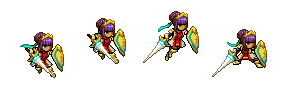
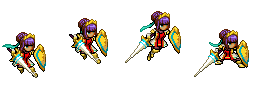
공격

diff --git a/boy.py b/boy.py
@@ -1,7 +1,10 @@
 # 이것은 각 상태들을 객체로 구현한 것임.
 
 from pico2d import get_time, load_image, SDL_KEYDOWN, SDL_KEYUP, SDLK_SPACE, SDLK_LEFT, SDLK_RIGHT
+from sdl2 import SDLK_UP, SDLK_DOWN
+
 import game_world
+import game_framework
 
 # state event check
 # ( state event type, event value )
@@ -9,23 +12,33 @@ import game_world
 def right_down(e):
     return e[0] == 'INPUT' and e[1].type == SDL_KEYDOWN and e[1].key == SDLK_RIGHT
 
-
-def right_up(e):
-    return e[0] == 'INPUT' and e[1].type == SDL_KEYUP and e[1].key == SDLK_RIGHT
-
-
 def left_down(e):
     return e[0] == 'INPUT' and e[1].type == SDL_KEYDOWN and e[1].key == SDLK_LEFT
 
+def up_down(e):
+    return e[0] == 'INPUT' and e[1].type == SDL_KEYDOWN and e[1].key == SDLK_UP
 
-def left_up(e):
-    return e[0] == 'INPUT' and e[1].type == SDL_KEYUP and e[1].key == SDLK_LEFT
-
+def down_down(e):
+    return e[0] == 'INPUT' and e[1].type == SDL_KEYDOWN and e[1].key == SDLK_DOWN
 def space_down(e):
     return e[0] == 'INPUT' and e[1].type == SDL_KEYDOWN and e[1].key == SDLK_SPACE
 
 
 # time_out = lambda e : e[0] == 'TIME_OUT'
+# Boy Run Speed
+PIXEL_PER_METER = (10.0 / 0.3) # 10 pixel 30 cm
+RUN_SPEED_KMPH = 20.0 # Km / Hour
+RUN_SPEED_MPM = (RUN_SPEED_KMPH * 1000.0 / 60.0)
+RUN_SPEED_MPS = (RUN_SPEED_MPM / 60.0)
+RUN_SPEED_PPS = (RUN_SPEED_MPS * PIXEL_PER_METER)
+
+# Boy Action Speed
+TIME_PER_ACTION = 0.5
+ACTION_PER_TIME = 1.0 / TIME_PER_ACTION
+FRAMES_PER_ACTION = 4
+
+FRAMES_PER_TIME = ACTION_PER_TIME * FRAMES_PER_ACTION
+
 
 
 
@@ -49,13 +62,13 @@ class Idle:
 
     @staticmethod
     def do(boy):
-        boy.frame = (boy.frame + 1) % 4
+        boy.frame = (boy.frame + FRAMES_PER_ACTION * ACTION_PER_TIME * game_framework.frame_time) % 4
         if get_time() - boy.wait_time > 2:
             boy.state_machine.handle_event(('TIME_OUT', 0))
 
     @staticmethod
     def draw(boy):
-        boy.image.clip_draw(boy.frame * 120, 0, 60, 80, boy.x, boy.y)
+        boy.idleimage.clip_draw(int(boy.frame) * 120, 0, 60, 80, boy.x, boy.y)
 
 
 
@@ -63,9 +76,9 @@ class Run:
 
     @staticmethod
     def enter(boy, e):
-        if right_down(e) or left_up(e): # 오른쪽으로 RUN
+        if right_down(e) or up_down(e): # 오른쪽으로 RUN
             boy.dir, boy.action, boy.face_dir = 1, 1, 1
-        elif left_down(e) or right_up(e): # 왼쪽으로 RUN
+        elif left_down(e) or down_down(e) : # 왼쪽으로 RUN
             boy.dir, boy.action, boy.face_dir = -1, 0, -1
 
     @staticmethod
@@ -75,13 +88,12 @@ class Run:
 
     @staticmethod
     def do(boy):
-        boy.frame = (boy.frame + 1) % 4
-        boy.x += boy.dir * 5
+        boy.frame = (boy.frame + FRAMES_PER_ACTION * ACTION_PER_TIME * game_framework.frame_time) % 3
         pass
 
     @staticmethod
     def draw(boy):
-        boy.image.clip_draw(boy.frame * 120, 0, 60, 80, boy.x, boy.y)
+        boy.attack_readyimage.clip_draw(int(boy.frame) * 70, 0, 50, 90, boy.x, boy.y)
 
 
 class StateMachine:
@@ -89,8 +101,8 @@ class StateMachine:
         self.boy = boy
         self.cur_state = Idle
         self.transitions = {
-            Idle: {right_down: Run, left_down: Run, left_up: Run, right_up: Run, space_down: Idle},
-            Run: {right_down: Idle, left_down: Idle, right_up: Idle, left_up: Idle, space_down: Run},
+            Idle: {right_down: Run, left_down: Run, up_down: Run, down_down : Run, space_down: Idle},
+            Run: {right_down: Idle, left_down: Idle, up_down: Idle, down_down : Idle, space_down: Run},
         }
 
     def start(self):
@@ -118,12 +130,14 @@ class StateMachine:
 
 class Boy:
     def __init__(self):
-        self.x, self.y = 400, 90
+        self.x, self.y = 100, 90
         self.frame = 0
         self.action = 3
         self.face_dir = 1
         self.dir = 0
-        self.image = load_image('C:\\qudgus\\TUK\\2Grade 2Semester\\2DGP\\2020184009\\2DGPproject\\resource\\character\\Hero1\\Hero1_idle.png')
+        self.idleimage = load_image('C:\\qudgus\\TUK\\2Grade 2Semester\\2DGP\\2020184009\\2DGPproject\\resource\\character\\Hero1\\Hero1_idle.png')
+        self.attack_readyimage = load_image(
+            'C:\\qudgus\\TUK\\2Grade 2Semester\\2DGP\\2020184009\\2DGPproject\\resource\\character\\Hero1\\Hero1_attack_ready.png')
         self.state_machine = StateMachine(self)
         self.state_machine.start()
         self.item = None

diff --git a/game_framework.py b/game_framework.py
@@ -1,6 +1,4 @@
-running = None
-stack = None
-
+import time
 
 def change_mode(mode):
     global stack
@@ -45,10 +43,17 @@ def run(start_mode):
     stack = [start_mode]
     start_mode.init()
 
-    while (running):
+    global frame_time
+    frame_time=0.0
+    current_time=time.time()
+    while running:
         stack[-1].handle_events()
         stack[-1].update()
         stack[-1].draw()
+        frame_time=time.time()-current_time
+        frame_rate=1.0/frame_time
+        current_time+=frame_time
+        print(f'Frame Time:{frame_time},Frame Rate:{frame_rate}')
 
     # repeatedly delete the top of the stack
     while (len(stack) > 0):

diff --git a/play_mode.py b/play_mode.py
@@ -4,6 +4,7 @@ import game_framework
 import game_world
 from grass import Grass
 from boy import Boy
+from Arrow import Arrow
 
 
 # Game object class here
@@ -26,6 +27,7 @@ def init():
     global grass
     global team
     global boy
+    global arrow
 
     running = True
 
@@ -34,6 +36,9 @@ def init():
 
     boy = Boy()
     game_world.add_object(boy, 1)
+
+    arrow = Arrow()
+    game_world.add_object(arrow,2)
 
 
 def finish():
